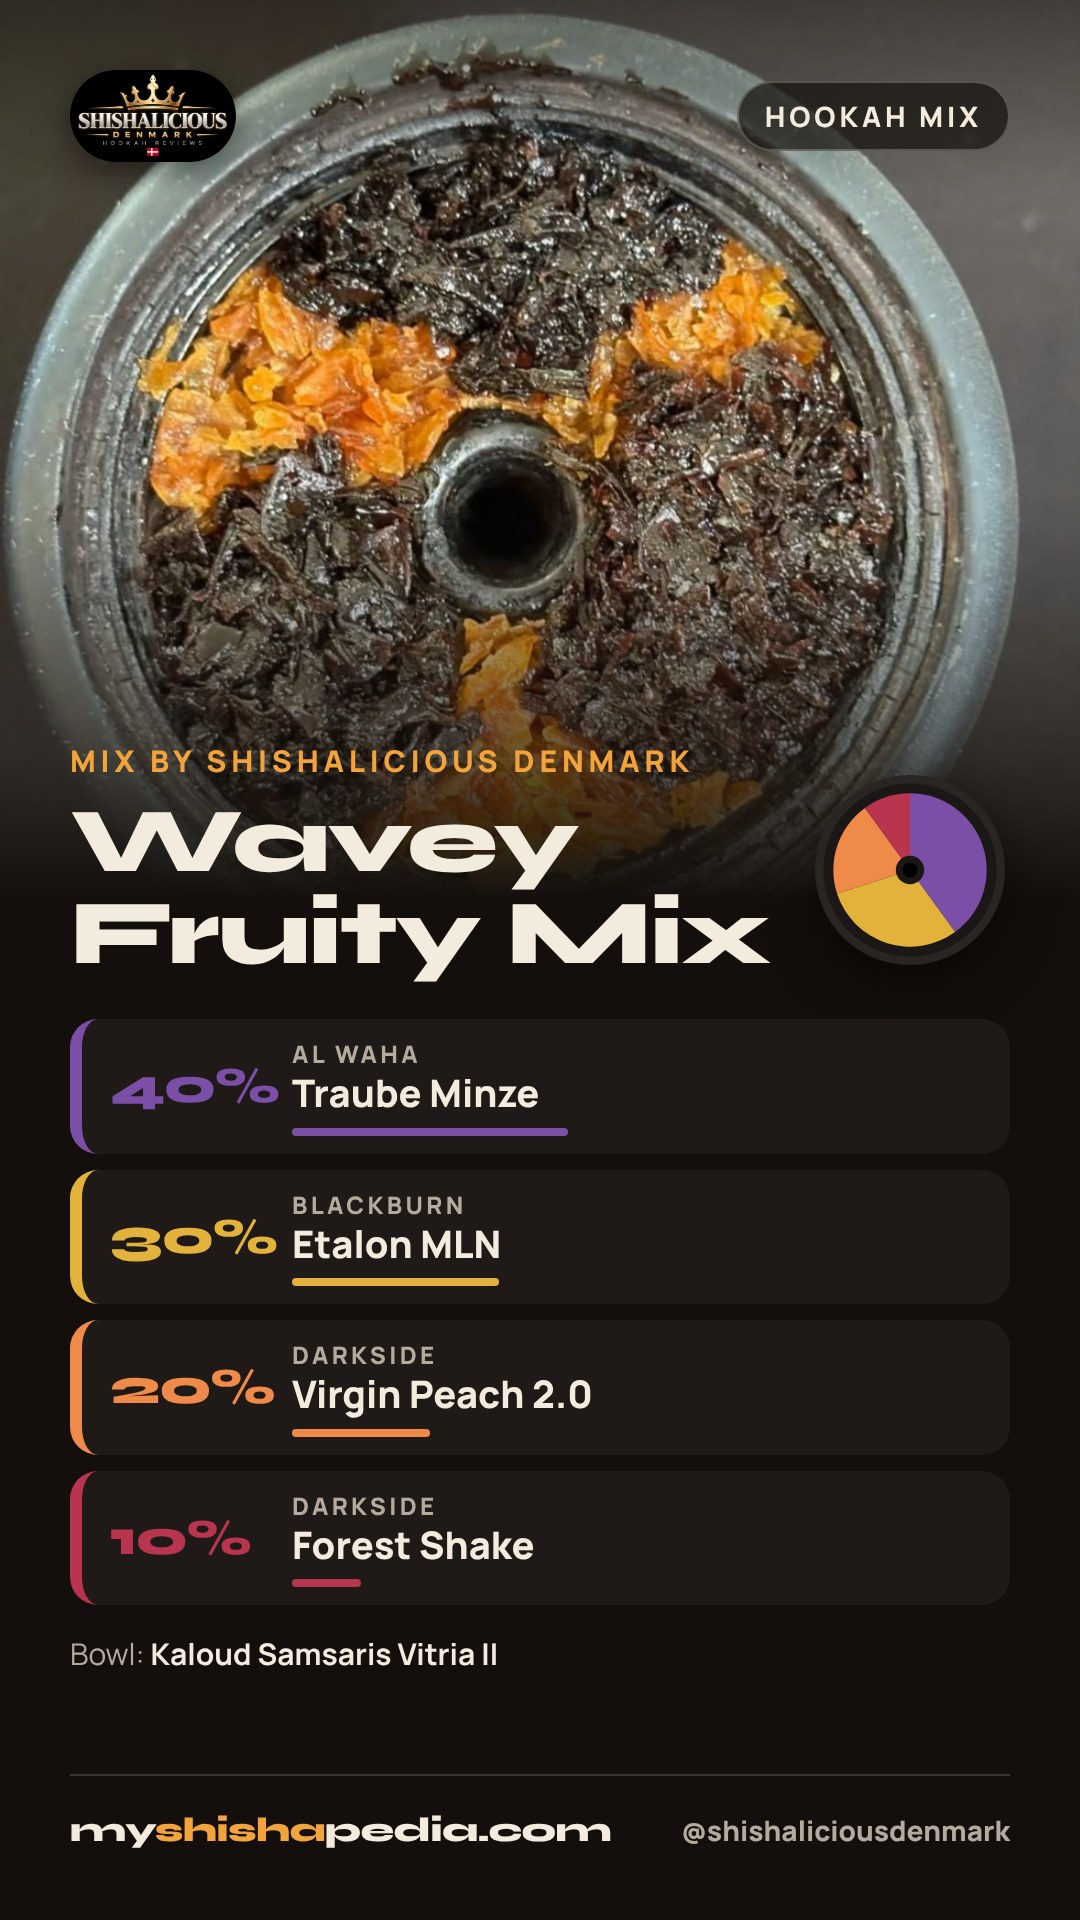
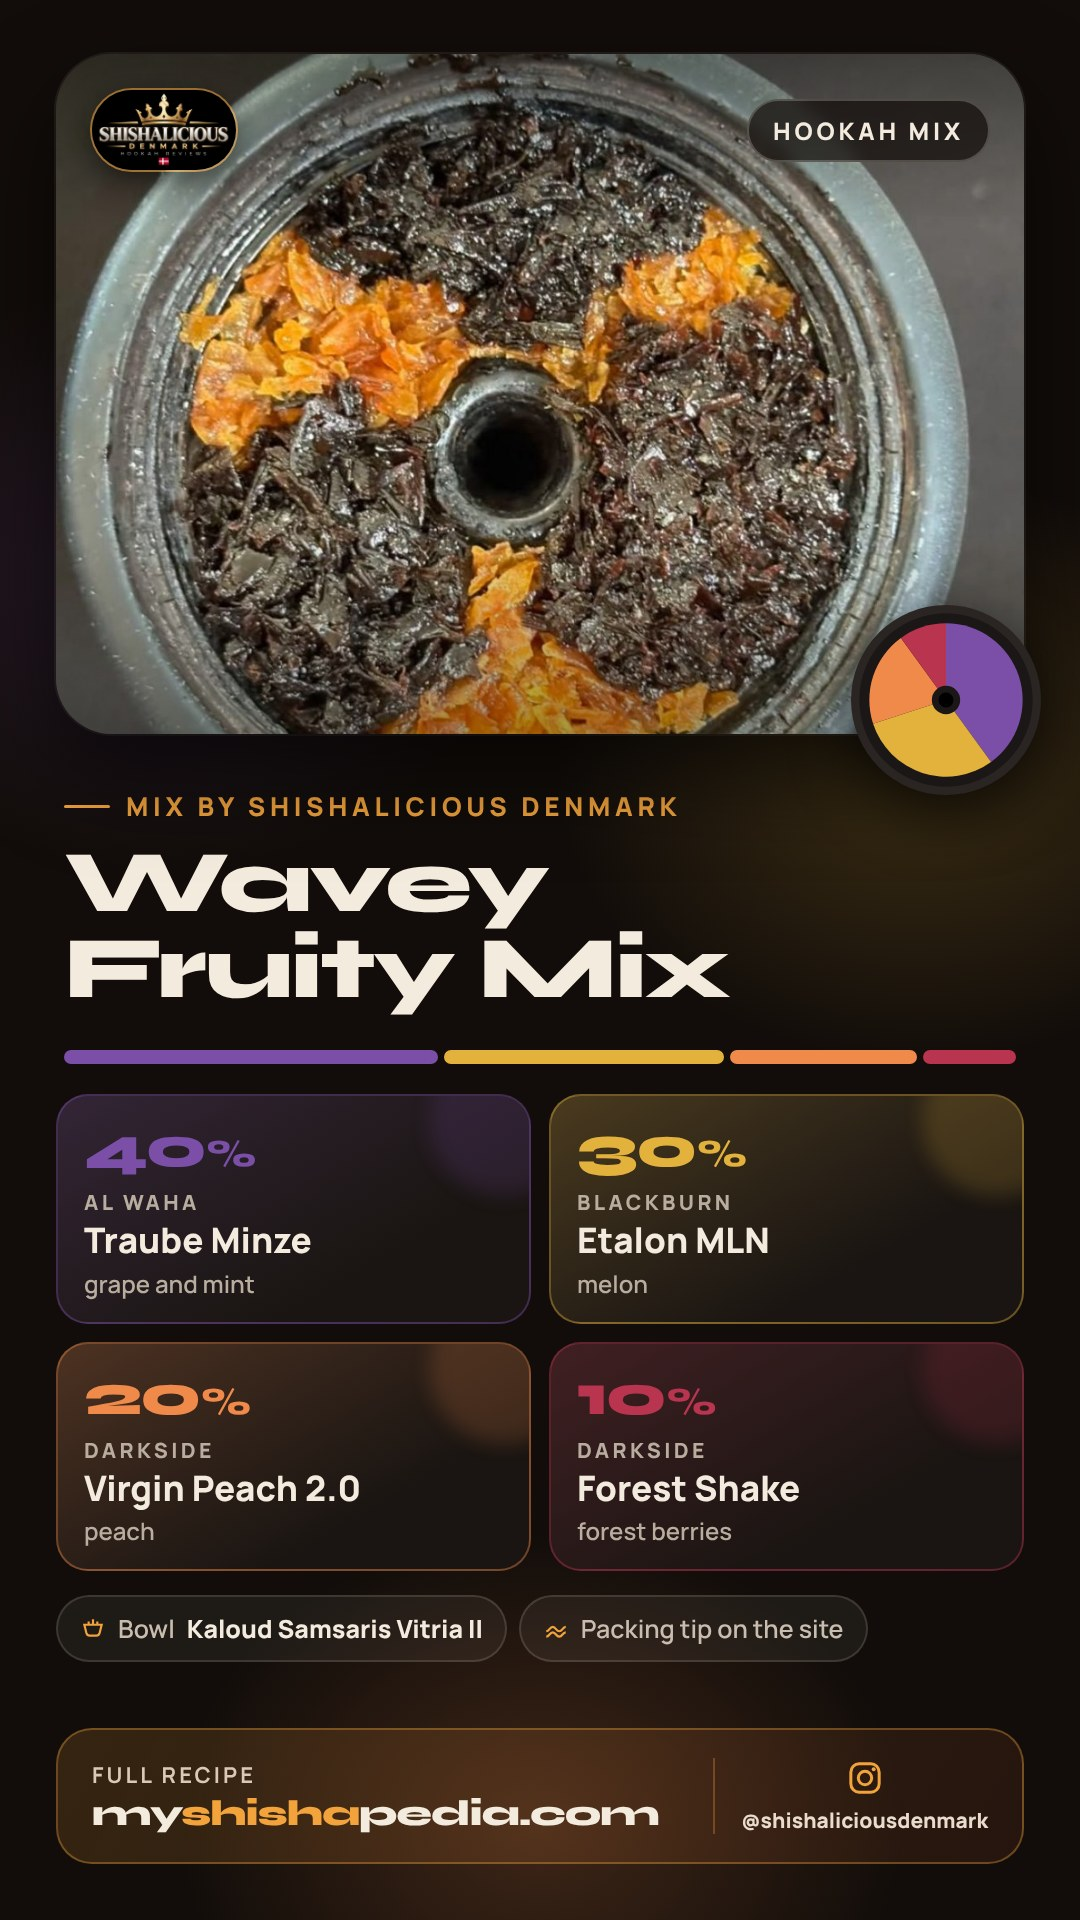
Kreatori: video otvara reel na Instagramu, nova kartica miksa

diff --git a/js/views-creators.js b/js/views-creators.js
@@ -20,8 +20,8 @@
       listMetaDesc: 'Miksovi za nargilu od pravih kreatora: okusi i procenti, posuda, savjeti za punjenje i video. Isprobaj i prati kreatore na Instagramu.',
       mixes: function (n) { return n === 1 ? '1 miks' : n + ' miksova'; },
       by: 'Miks od', follow: 'Prati na Instagramu', flavorsTitle: 'Okusi i procenti', bowl: 'Posuda', packTitle: 'Savjet za punjenje',
-      aboutTitle: 'O miksu', words: 'Riječi kreatora', videoTitle: 'Pogledaj kako puni', play: 'Pusti video sa Instagrama',
-      videoNote: 'Video se pušta sa Instagrama kreatora.', moreBy: 'Još miksova od', allCreators: 'Svi kreatori', card: 'Kartica miksa',
+      aboutTitle: 'O miksu', words: 'Riječi kreatora', videoTitle: 'Pogledaj kako puni', play: 'Pogledaj video na Instagramu', playEmbed: 'Pusti video sa Instagrama',
+      videoNote: 'Video se otvara na Instagramu kreatora.', videoNoteEmbed: 'Video se pušta sa Instagrama kreatora.', moreBy: 'Još miksova od', allCreators: 'Svi kreatori', card: 'Kartica miksa',
       cardNote: 'Slika miksa za story ili kraj videa.', download: 'Preuzmi karticu', inDb: 'u bazi', creatorMetaTitle: '{name} · miksovi za nargilu i savjeti za punjenje | MyShishapedia',
       creatorMetaDesc: 'Miksovi za nargilu od {name} ({country}): okusi sa procentima, posuda, savjeti za punjenje i video sa Instagrama.',
       mixMetaTitle: '{mix}: miks za nargilu od {name} | MyShishapedia', mixMetaDesc: '{mix} od {name}: {parts}. Okusi, savjet za punjenje i video.',
@@ -34,8 +34,8 @@
       listMetaDesc: 'Hookah mixes from real creators: flavors and percentages, the bowl, packing tips and a video. Try them and follow the creators on Instagram.',
       mixes: function (n) { return n === 1 ? '1 mix' : n + ' mixes'; },
       by: 'Mix by', follow: 'Follow on Instagram', flavorsTitle: 'Flavors and percentages', bowl: 'Bowl', packTitle: 'Packing tip',
-      aboutTitle: 'About the mix', words: 'In the creator’s words', videoTitle: 'Watch how it’s packed', play: 'Play the video from Instagram',
-      videoNote: 'The video plays from the creator’s Instagram.', moreBy: 'More mixes by', allCreators: 'All creators', card: 'Mix card',
+      aboutTitle: 'About the mix', words: 'In the creator’s words', videoTitle: 'Watch how it’s packed', play: 'Watch the video on Instagram', playEmbed: 'Play the video from Instagram',
+      videoNote: 'The video opens on the creator’s Instagram.', videoNoteEmbed: 'The video plays from the creator’s Instagram.', moreBy: 'More mixes by', allCreators: 'All creators', card: 'Mix card',
       cardNote: 'The mix as an image for a story or the end of a video.', download: 'Download the card', inDb: 'in our database', creatorMetaTitle: '{name} · hookah mixes and packing tips | MyShishapedia',
       creatorMetaDesc: 'Hookah mixes by {name} ({country}): flavors with percentages, the bowl, packing tips and the video from Instagram.',
       mixMetaTitle: '{mix}: hookah mix by {name} | MyShishapedia', mixMetaDesc: '{mix} by {name}: {parts}. Flavors, packing tip and video.',
@@ -48,8 +48,8 @@
       listMetaDesc: 'Shisha-Mixe von echten Creatorn: Sorten und Prozente, Kopf, Tipps zum Bauen und ein Video. Ausprobieren und den Creatorn auf Instagram folgen.',
       mixes: function (n) { return n === 1 ? '1 Mix' : n + ' Mixe'; },
       by: 'Mix von', follow: 'Auf Instagram folgen', flavorsTitle: 'Sorten und Prozente', bowl: 'Kopf', packTitle: 'Tipp zum Bauen',
-      aboutTitle: 'Über den Mix', words: 'In den Worten des Creators', videoTitle: 'So wird er gebaut', play: 'Video von Instagram abspielen',
-      videoNote: 'Das Video läuft über das Instagram des Creators.', moreBy: 'Mehr Mixe von', allCreators: 'Alle Creator', card: 'Mix-Karte',
+      aboutTitle: 'Über den Mix', words: 'In den Worten des Creators', videoTitle: 'So wird er gebaut', play: 'Video auf Instagram ansehen', playEmbed: 'Video von Instagram abspielen',
+      videoNote: 'Das Video öffnet sich auf dem Instagram des Creators.', videoNoteEmbed: 'Das Video läuft über das Instagram des Creators.', moreBy: 'Mehr Mixe von', allCreators: 'Alle Creator', card: 'Mix-Karte',
       cardNote: 'Der Mix als Bild für eine Story oder das Ende eines Videos.', download: 'Karte herunterladen', inDb: 'in unserer Datenbank', creatorMetaTitle: '{name} · Shisha-Mixe und Tipps zum Bauen | MyShishapedia',
       creatorMetaDesc: 'Shisha-Mixe von {name} ({country}): Sorten mit Prozenten, Kopf, Tipps zum Bauen und das Video von Instagram.',
       mixMetaTitle: '{mix}: Shisha-Mix von {name} | MyShishapedia', mixMetaDesc: '{mix} von {name}: {parts}. Sorten, Tipp zum Bauen und Video.',
@@ -73,6 +73,7 @@
   function partFlavor(p) { return p.ref && V.flavorById ? V.flavorById(p.ref) : null; }
   V.creatorMixParts = function (m) { return m.parts.map(function (p) { return p.pct + '% ' + p.brand + ' ' + p.flavor; }).join(', '); };
   function igUrl(c) { return 'https://www.instagram.com/' + encodeURIComponent(c.instagram) + '/'; }
+  function reelUrl(code) { return 'https://www.instagram.com/reel/' + code + '/'; }
   function reelCode(u) { var x = /instagram\.com\/(?:[^/]+\/)?(?:reel|p)\/([A-Za-z0-9_-]+)/.exec(u || ''); return x ? x[1] : ''; }
 
   /** Pogled odozgo na posudu sa sektorima u bojama okusa. */
@@ -172,12 +173,12 @@
       '</div></section>' +
       (code ? '<section class="fsec fsec--alt" id="crt-video" aria-labelledby="crt-video-t"><div class="container crt-videowrap">' +
         V.sectionHead('03', tx('videoTitle'), '', 'crt-video-t') +
-        '<div class="crt-video" data-reel="' + esc(code) + '">' +
-          '<button type="button" class="crt-video__play" data-play aria-label="' + esc(tx('play')) + '">' +
+        '<div class="crt-video"' + (m.embed ? ' data-reel="' + esc(code) + '"' : '') + '>' +
+          (m.embed ? '<button type="button" class="crt-video__play" data-play aria-label="' + esc(tx('playEmbed')) + '">' : '<a class="crt-video__play" href="' + esc(reelUrl(code)) + '" target="_blank" rel="noopener">') +
             (m.photo ? '<img src="' + esc(V.creatorAsset(c, m.photo)) + '" alt="" loading="lazy" width="1080" height="1428">' : '') +
-            '<span class="crt-video__btn" aria-hidden="true"><svg viewBox="0 0 24 24"><path d="M8 5.5v13l11-6.5z" fill="currentColor"/></svg></span><span class="crt-video__lbl">' + esc(tx('play')) + '</span></button>' +
+            '<span class="crt-video__btn" aria-hidden="true"><svg viewBox="0 0 24 24"><path d="M8 5.5v13l11-6.5z" fill="currentColor"/></svg></span><span class="crt-video__lbl">' + (m.embed ? esc(tx('playEmbed')) + '</span></button>' : igIcon() + esc(tx('play')) + '</span></a>') +
         '</div>' +
-        '<p class="crt-video__note">' + igIcon() + '<span>' + esc(tx('videoNote')) + ' <a href="' + esc(m.video) + '" target="_blank" rel="noopener">@' + esc(c.instagram) + '</a></span></p>' +
+        '<p class="crt-video__note">' + igIcon() + '<span>' + esc(tx(m.embed ? 'videoNoteEmbed' : 'videoNote')) + ' <a href="' + esc(igUrl(c)) + '" target="_blank" rel="noopener">@' + esc(c.instagram) + '</a></span></p>' +
       '</div></section>' : '') +
       (m.card ? '<section class="fsec" aria-labelledby="crt-card-t"><div class="container crt-cardrow">' +
         '<div>' + V.sectionHead(code ? '04' : '03', tx('card'), '', 'crt-card-t') + '<p class="crt-card__note">' + esc(tx('cardNote')) + '</p><a class="btn btn--ghost" href="' + esc(V.creatorAsset(c, m.card)) + '" download>' + icon('download') + '<span>' + esc(tx('download')) + '</span></a></div>' +

diff --git a/data/creators.js b/data/creators.js
@@ -21,7 +21,8 @@
  *   bowl            posuda (tekst)
  *   packing         { en } savjet za punjenje
  *   description     { en } kreatorove riječi o miksu
- *   video           link na Instagram reel (ugrađuje se, pregledi idu kreatoru)
+ *   video           link na Instagram reel; dugme otvara reel na Instagramu (pregledi idu kreatoru)
+ *   embed           true = video se pušta na stranici (samo ako kreator dozvoli ugrađivanje na Instagramu)
  *   photo           slika gotovog bowla u static/creators/<creator>/
  *   card            kartica miksa (JPG 1080x1920, pravi je scripts/creator-cards.mjs)
  *   added           datum objave (YYYY-MM-DD)
@@ -52,7 +53,7 @@ window.CREATOR_MIXES = [
     bowl: 'Kaloud Samsaris Vitria II',
     packing: { en: 'Wave mix packing tip: pack your blonde leaf slightly lower than your dark leaf. Dark leaf handles more heat, and the different heights create a wave look from the side.' },
     description: { en: 'Sweet and nice fruit mix.' },
-    video: 'https://www.instagram.com/shishaliciousdenmark/reel/DfX1TWhx0LZ/',
+    video: 'https://www.instagram.com/reel/DfX1TWhx0LZ/',
     photo: 'wavey-fruity-mix.jpg',
     card: 'wavey-fruity-mix-card.jpg',
     added: '2026-11-13'

diff --git a/css/style.css b/css/style.css
@@ -9003,3 +9003,6 @@ a.smx__card:hover { border-color: var(--c-line-strong); transform: translateY(-2
 .crt-profile > div { min-width: 0; container-type: inline-size; }
 .crt-profile .phero__title { font-size: min(clamp(2.8rem, 1.3rem + 5.6vw, 6.4rem), calc(100cqi / (var(--len, 8) * 0.95))); }
 .crt-recipe .rgrid .fsec__title { font-size: clamp(1.9rem, 1.2rem + 1.8vw, 2.8rem); overflow-wrap: anywhere; }
+a.crt-video__play { text-decoration: none; }
+.crt-video__lbl { display: inline-flex; align-items: center; justify-content: center; gap: 8px; }
+.crt-video__lbl .icon { width: 20px; height: 20px; }
